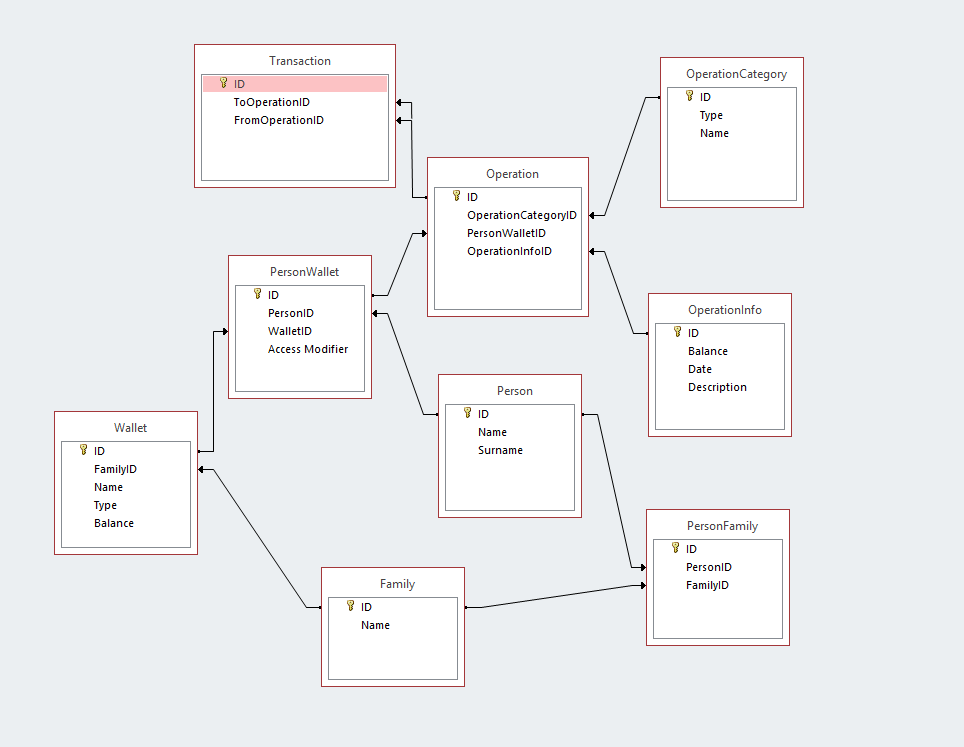
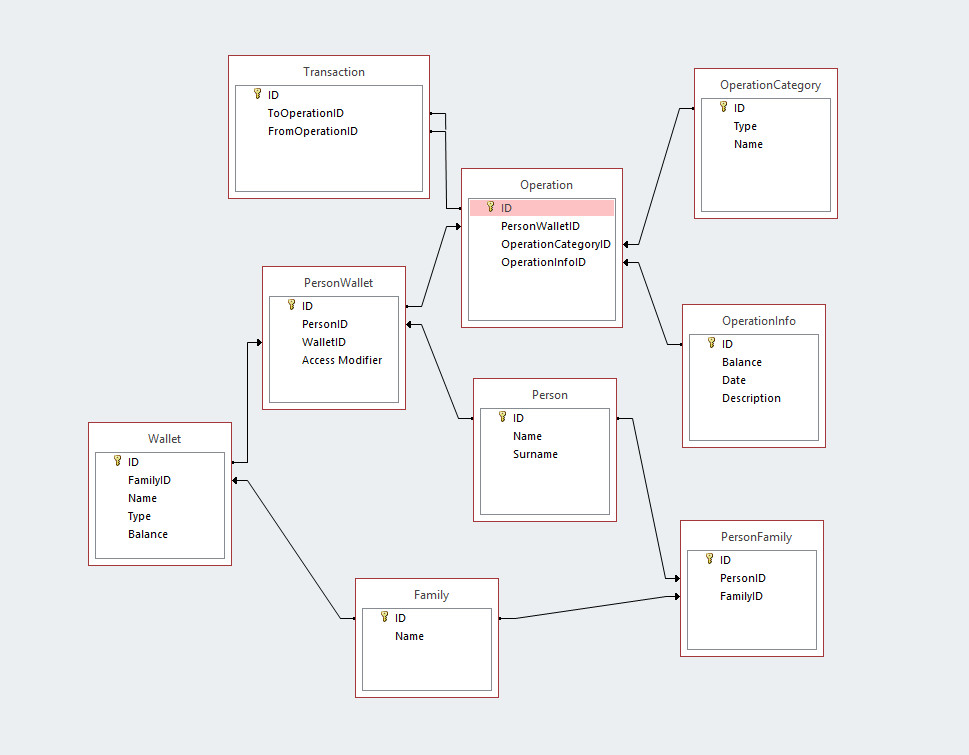
Changed schema and renamed property

diff --git a/Program/FamilyWallet/Domain/Entity/PersonWallet.cs b/Program/FamilyWallet/Domain/Entity/PersonWallet.cs
@@ -12,7 +12,7 @@ namespace Domain.Entity
         public virtual Person Person { get; set; }
         public int? WalletID { get; set; }
         public virtual Wallet Wallet { get; set; }
-        public AccessModifier Scope { get; set; }
+        public AccessModifier AccessModifier { get; set; }
         public virtual ICollection<Operation> Operations { get; set; }
     }
 }
